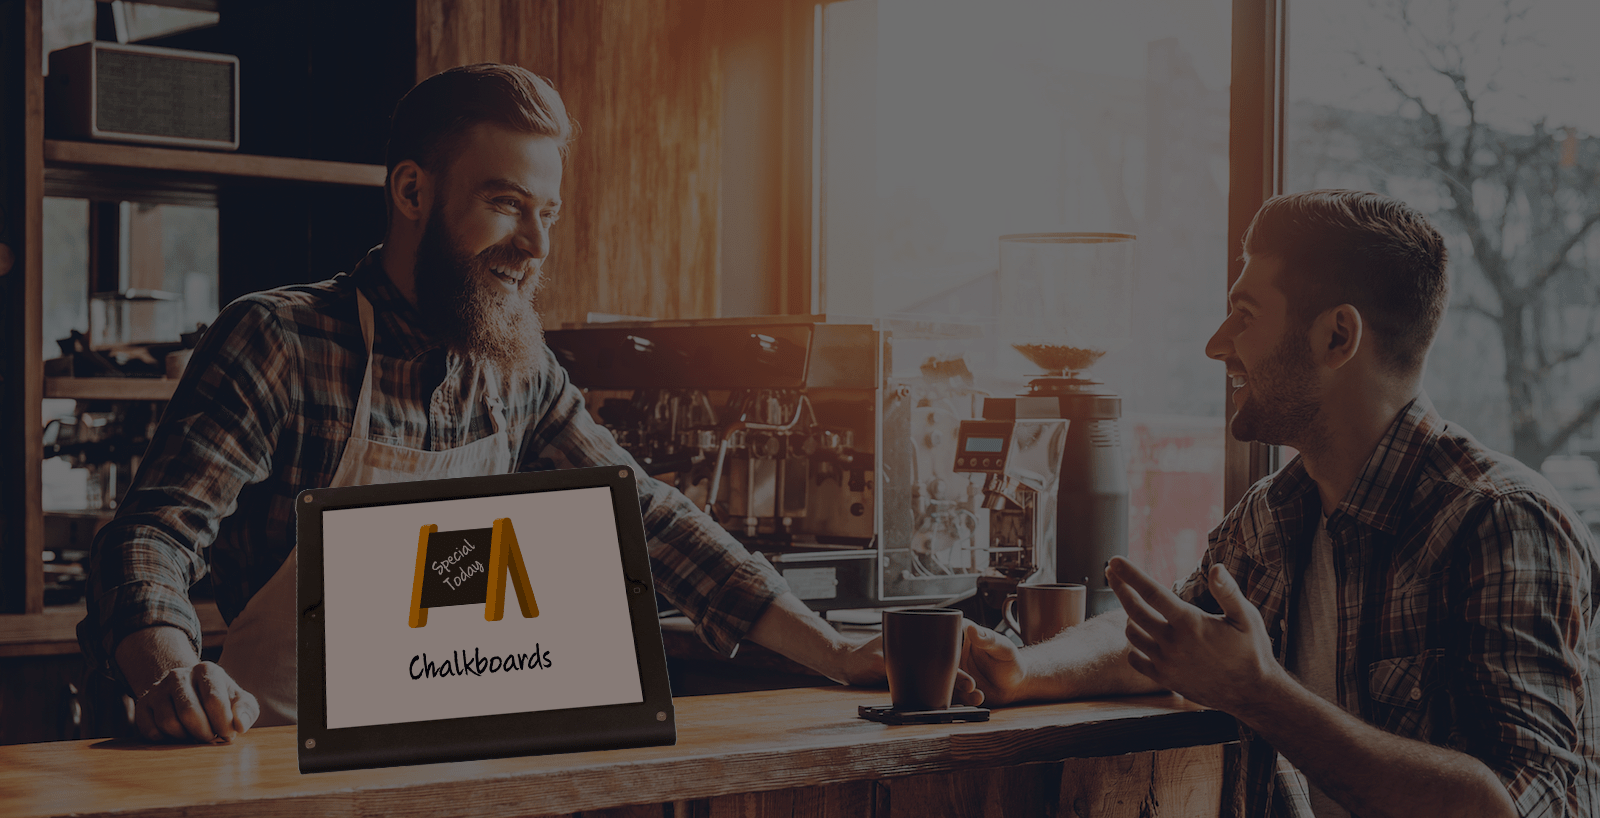
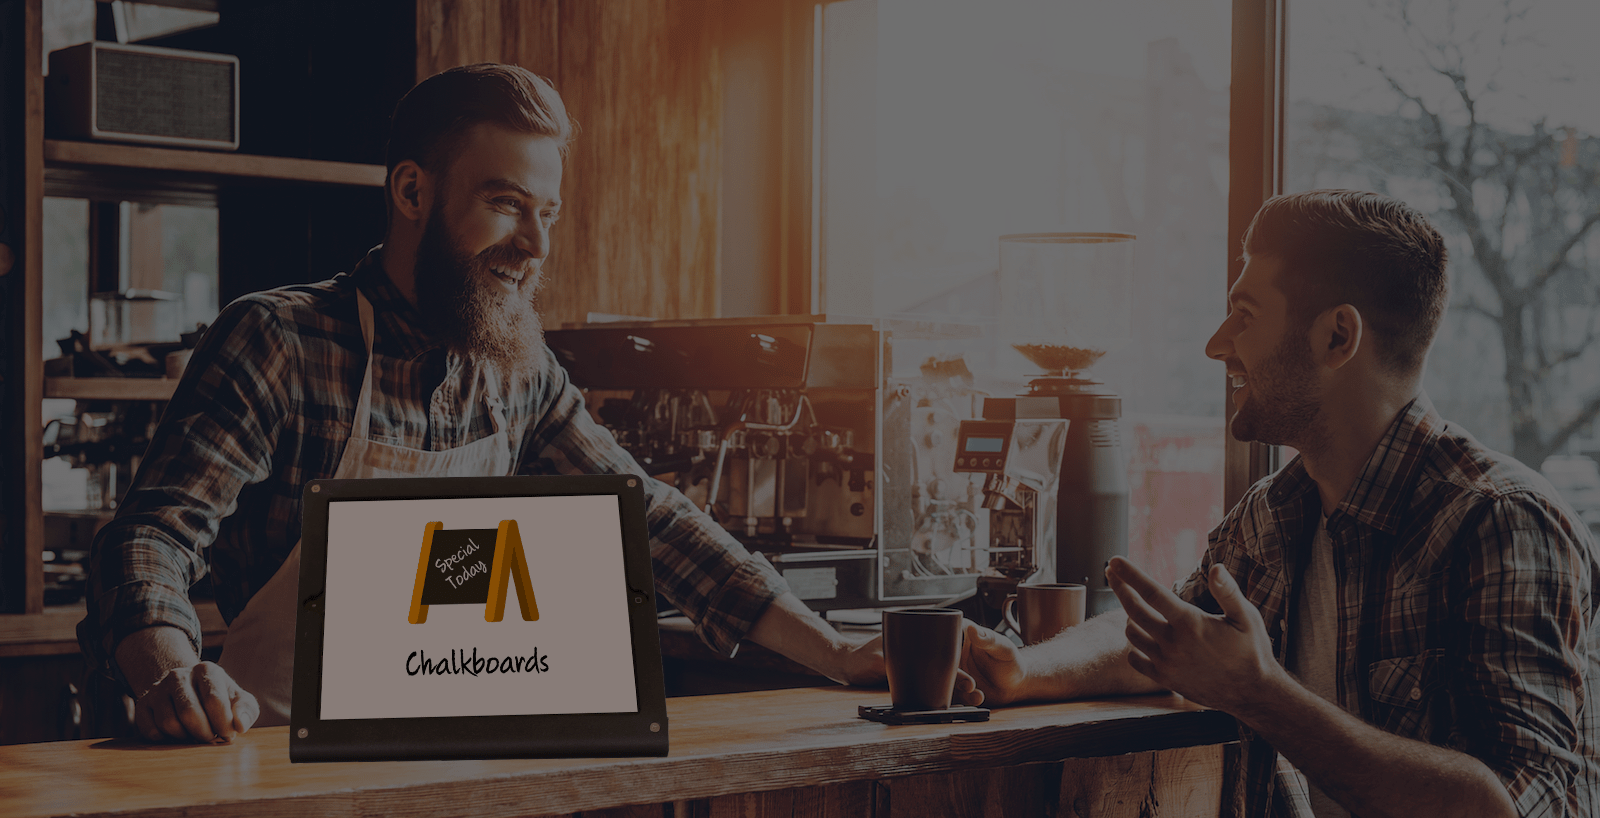
update

diff --git a/app/app_sitelette/sitefiles/css/style.css b/app/app_sitelette/sitefiles/css/style.css
@@ -1914,7 +1914,7 @@ a.get_started_btn:active {
   padding-top:20px;
 }
 .middle_block {
-  background: url(../images/landing/happyWithChalkboards.png) no-repeat;
+  background: url(../images/landing/conversatio.png) no-repeat;
   -webkit-background-size: 100% auto;
   -moz-background-size: 100% auto;
   -o-background-size: 100% auto;
@@ -1976,7 +1976,7 @@ a.get_started_btn:active {
 }
 @media only screen and (min-device-width: 320px) and (max-device-width: 667px) and (orientation: portrait) {
   .middle_block {
-    background: url(../images/landing/happyWithChalkboardsMobile.png) no-repeat center;
+    background: url(../images/landing/conversatioMobile.png) no-repeat center;
     -webkit-background-size: 100% auto;
     -moz-background-size: 100% auto;
     -o-background-size: 100% auto;
